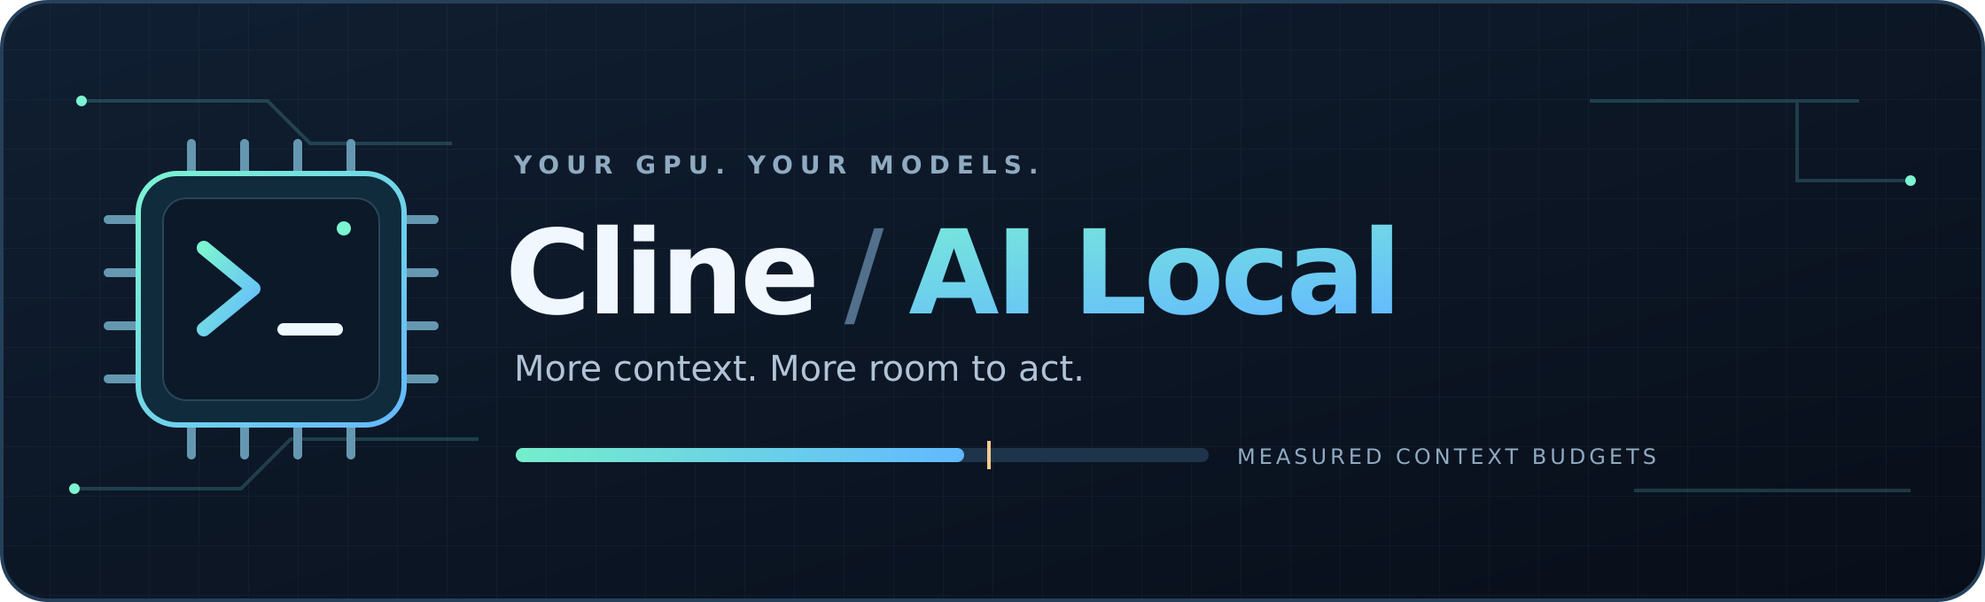
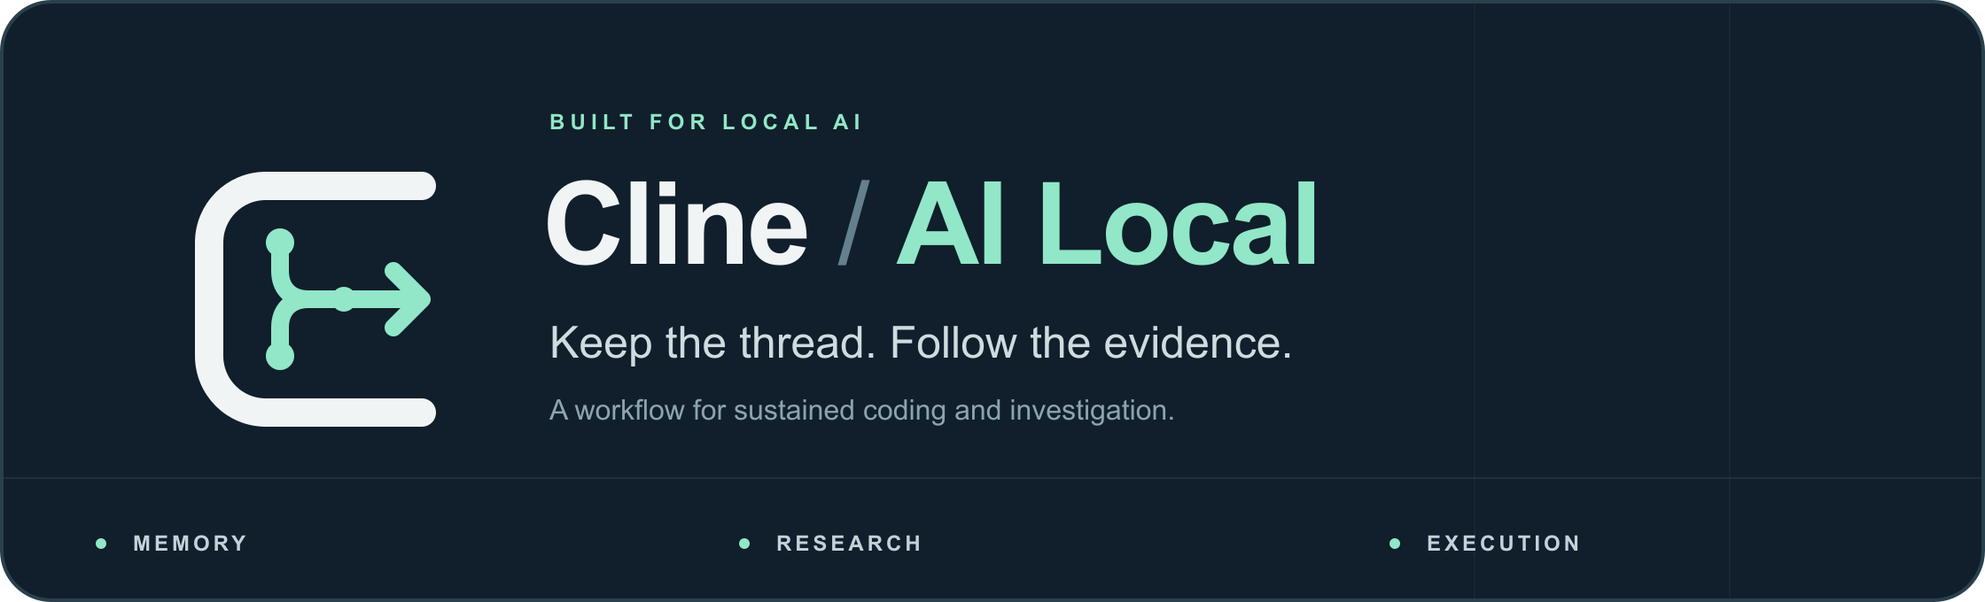
docs: position AI Local around sustained model workflows

diff --git a/local/release.py b/local/release.py
@@ -16,6 +16,7 @@ import sys
 
 ROOT = Path(__file__).resolve().parent.parent
 MANIFESTS = {"cli": "apps/cli/package.json", "extension": "apps/vscode/package.json"}
+README_IMAGES = ("assets/branding/ai-local-banner.png", "assets/screenshots/local-model-settings.png")
 
 
 def run(root, *args):
@@ -65,9 +66,10 @@ def stamped_manifests(root, release):
     originals = {root / path: (root / path).read_bytes() for path in MANIFESTS.values()}
     readme = root / "apps/vscode/README.md"
     originals[readme] = readme.read_bytes()
-    banner = root / "apps/vscode/assets/branding/ai-local-banner.png"
-    if banner.exists():
-        raise ValueError("Remove the stale generated extension banner before rebuilding")
+    images = [(root / relative, root / "apps/vscode" / relative) for relative in README_IMAGES]
+    for _source, target in images:
+        if target.exists():
+            raise ValueError(f"Remove the stale generated extension README image before rebuilding: {target.name}")
     try:
         for path in [root / p for p in MANIFESTS.values()]:
             manifest = json.loads(originals[path])
@@ -79,13 +81,15 @@ def stamped_manifests(root, release):
                 manifest["bugs"] = {"url": release["repository"] + "/issues"}
             path.write_text(json.dumps(manifest, indent="\t", ensure_ascii=False) + "\n")
         readme.write_bytes((root / "README.md").read_bytes())
-        banner.parent.mkdir(parents=True, exist_ok=True)
-        banner.write_bytes((root / "assets/branding/ai-local-banner.png").read_bytes())
+        for source, target in images:
+            target.parent.mkdir(parents=True, exist_ok=True)
+            target.write_bytes(source.read_bytes())
         yield
     finally:
         for path, contents in originals.items():
             path.write_bytes(contents)
-        banner.unlink(missing_ok=True)
+        for _source, target in images:
+            target.unlink(missing_ok=True)
 
 
 def write_provenance(root, record, package):
@@ -108,8 +112,9 @@ def verify_artifacts(root, record, package, vsix):
             raise ValueError("Packaged extension version or preserved identity is incorrect")
         if json.loads(archive.read("extension/dist/source-provenance.json")) != record:
             raise ValueError("VSIX provenance does not match the CLI")
-        if archive.read("extension/assets/branding/ai-local-banner.png") != (root / "assets/branding/ai-local-banner.png").read_bytes():
-            raise ValueError("VSIX is missing the fork banner")
+        for relative in README_IMAGES:
+            if archive.read("extension/" + relative) != (root / relative).read_bytes():
+                raise ValueError(f"VSIX is missing its fork README image: {relative}")
         if "What this fork provides" not in archive.read(next(name for name in archive.namelist() if name.lower() == "extension/readme.md")).decode():
             raise ValueError("VSIX is missing the fork introduction")
         runtime = record["coreRuntimeBuildId"].encode()

diff --git a/local/test_release.py b/local/test_release.py
@@ -28,6 +28,8 @@ class ReleaseTests(unittest.TestCase):
             (root / "apps/vscode/assets").mkdir()
             (root / "assets/branding").mkdir(parents=True)
             (root / "assets/branding/ai-local-banner.png").write_text("<svg/>")
+            (root / "assets/screenshots").mkdir()
+            (root / "assets/screenshots/local-model-settings.png").write_bytes(b"settings screenshot")
             (root / "README.md").write_text("What this fork provides\nassets/branding/ai-local-banner.png\n")
             metadata = {"version": "2026.10.1", "displayName": "Cline / AI Local", "description": "Local models"}
             with self.assertRaisesRegex(RuntimeError, "compiler failed"):
@@ -36,10 +38,12 @@ class ReleaseTests(unittest.TestCase):
                     self.assertEqual(extension["version"], "2026.10.1")
                     self.assertEqual(extension["publisher"], "preserved")
                     self.assertIn("assets/branding/ai-local-banner.png", readme.read_text())
+                    self.assertEqual((root / "apps/vscode/assets/screenshots/local-model-settings.png").read_bytes(), b"settings screenshot")
                     raise RuntimeError("compiler failed")
             for path, expected in originals.items():
                 self.assertEqual(path.read_bytes(), expected)
             self.assertFalse((root / "apps/vscode/assets/branding/ai-local-banner.png").exists())
+            self.assertFalse((root / "apps/vscode/assets/screenshots/local-model-settings.png").exists())
 
     def test_only_explicit_development_build_can_reuse_a_tagged_version(self):
         with tempfile.TemporaryDirectory() as directory:

diff --git a/README.md b/README.md
@@ -1,32 +1,53 @@
 <!-- AI Local fork introduction. Preserve the upstream README below its marker. -->
 <p align="center">
-  <img src="assets/branding/ai-local-banner.png" width="100%" alt="Cline / AI Local — your GPU, your models" />
+  <img src="assets/branding/ai-local-banner.png" width="100%" alt="Cline / AI Local — keep the thread, follow the evidence" />
 </p>
 
 <p align="center">
-  <strong>Built for local GPUs, with precise token budgeting, improved context compaction, focused web research, and native model controls.</strong>
+  <strong>Keep the thread. Follow the evidence. Finish the work.</strong>
 </p>
 
-**Cline / AI Local** is a practical fork for people running Qwen 27B and similar models on their own GPUs. It keeps Cline's CLI and VS Code extension together, with particular attention to making a finite context window useful over long coding sessions.
+**Cline / AI Local** brings session memory, focused research, and execution you can follow to local-model workflows in the **CLI and VS Code**. It grows out of everyday coding and investigation with models running on your own hardware: keeping useful knowledge across sessions, finding the right evidence, and following a command through to its result.
+
+Context is one part of that workflow. The aim is to make the model, its working memory, and its tools work well together over sustained tasks.
+
+### See and control your model's working budget
+
+The native model configuration screen puts **context allocation, compaction, output and reasoning controls** in one place. Its breakdown shows tools and instructions, summarized history, raw recent history, output including thinking, counting margin, and the space reserved for further iterations.
+
+**Default, Profile 1 and Profile 2 are saved per provider/server/model.** Switch between a long investigation and a tighter working budget without rebuilding the settings each time. Grey italic values distinguish server/calculated defaults from your overrides. CLI model selection uses the same saved slots, and both clients display the selected model ID and profile.
+
+<p align="center">
+  <img src="assets/screenshots/local-model-settings.png" width="720" alt="Native model configuration showing Default, Profile 1 and Profile 2, editable context settings, and the complete context budget breakdown" />
+</p>
+
+*The actual settings component, rendered with example values and Profile 1 selected. Tools/instructions and recent-history allocations are estimates; supported native counters verify the prepared request at runtime. [Screenshot details](assets/screenshots/README.md).*
 
 ### What this fork provides
 
-- **Measured context budgets.** Native preflight token counting for supported vLLM / HyperQwen and llama.cpp servers accounts for the actual request, helping preserve room for output without large, conservative padding. Providers without a native counter use estimation; a configured counter failure is reported rather than silently hidden.
-- **Improved compaction and continuity.** Measured input limits guide compaction and overflow recovery; bounded targets, empty-summary recovery, resumed-session fixes, and stable compacted prefixes help keep long sessions useful and preserve prefix-cache reuse.
-- **Focused web research.** Search, save a page outside the conversation, find relevant passages, then read only the lines needed. Whole pages do not have to occupy the model's context. One search tool can use a configured provider, including the optional SearXNG plugin, while native and Exa search support remain available.
-- **Native local-model controls.** Explicit vLLM and llama.cpp providers expose reasoning, sampling, context and output limits. Model discovery and saved profiles restore settings per provider, server and model, shared by the editor and CLI. HyperQwen is used through the vLLM provider; llama-swap can sit in front without Cline guessing or switching the inference engine.
-- **A native file editor.** Structured, bounded reads and edits with file hashes and conflict checks bring the former editor MCP workflow into Cline's built-in tools.
-- **Practical reliability fixes.** Shutdown logging guards, session recovery, and verified waits for long-running commands and expert consultations address problems encountered during everyday local use.
+- **Native model configuration.** vLLM and llama.cpp controls expose sampling, thinking, context/output limits and compaction budgets. Per-model profile slots, editable token-cost estimates, model discovery and visible IDs keep the CLI and editor aligned. HyperQwen uses the vLLM provider; llama-swap can route requests without Cline guessing the inference engine.
+- **Memory built from the work.** Compaction records actions and results, user requirements, design and API knowledge learned from code/docs, corrections, and unresolved work. Whole messages and tool exchanges stay together. Oldest notes are reduced together only when the summary exceeds its budget. Model-generated summaries remain imperfect; full saved history is retained.
+- **Continuity across recovery and revisions.** Resume, checkpoint/Undo and edited-message fixes preserve validated compaction state and the working context. Prepared requests retain stable summarized prefixes where possible, supporting prefix-cache reuse.
+- **Research with evidence in reach.** Search, save pages outside the conversation, find relevant passages, and read only the lines needed. The model can revisit sources without carrying whole pages in context. Search and page acquisition have configurable providers, including the optional SearXNG plugin.
+- **Commands that remain trackable.** Native/headless commands that outlast the foreground wait continue under the same PID, with captured output and a log for later results. Identity-aware process waits and verified expert-status waits avoid repeated shell polling and false loop failures. Visible VS Code terminals retain their own terminal-specific handoff.
+- **Native editing with staged drafts.** Bounded reads, file hashes, exact-range edits and conflict checks are built into the toolset. Large content can be assembled in chunks before a guarded apply; editor previews and commits use the same underlying engine.
+- **A reusable setup for sustained work.** The opt-in [bootstrap kit](bootstrap/README.md) includes portable rule supplements, a Codex-backed `consult-expert` MCP for explicitly requested expert assignments, and CLI hooks for completion, errors and questions waiting for an answer. These are supplied as setup material, not silently activated by installing Cline.
+
+Underneath those workflows are native request counting and budget admission, bounded reasoning previews, code-server logging and transport repairs, and matched CLI/extension builds with source provenance. The [fork modification inventory](docs/fork-differences.md) maps these changes to their implementation and integration history.
 
 ### Why this fork exists
 
-Customization began after finding a memory leak while running Cline under **code-server**: closing the output channel could trigger recursive logging during logout. The upstream fix is tracked in [PR #15066 — prevent closed output channel logging recursion](https://github.com/cline/cline/pull/15066).
+The first change addressed a code-server memory leak: closing the output channel could trigger recursive logging during logout. That repair is documented in [PR #15066 — prevent closed output channel logging recursion](https://github.com/cline/cline/pull/15066).
 
-The scope grew from that repair into the local-inference and context-management improvements above. Cline has a substantial open pull-request queue, and waiting for every needed change to be reviewed and released would have taken too long for this setup. This fork makes those changes usable together now while continuing to merge upstream development. Its purpose lasts only as long as these improvements remain useful: as upstream Cline incorporates equivalent or better behavior, the corresponding local changes can be retired.
+The scope has grown into an integrated environment for working with local models. The improvements come from actual failures and repeated friction in long coding and research sessions, rather than treating a larger context window as the solution to every problem.
+
+This remains a Cline fork. It continues to integrate upstream development, preserves Cline's authorship and license, and can retire local changes as upstream provides equivalent or better behavior.
 
 ### Builds and upstream
 
-CLI and extension releases share one fork version, **`year.month.release`** (for example, `2026.10.1`). Each build records the exact fork commit, merged upstream commit, original upstream package versions and shared runtime fingerprint. See [local builds and releases](local/README.md) and the [development workflow](LOCAL_DEVELOPMENT.md).
+CLI and extension releases share one fork version, **`year.month.release`** (for example, `2026.10.1`). Development builds record their exact source commit without moving a release tag. Both clients are built from the same committed SDK source, with provenance, a shared runtime fingerprint and artifact hashes.
+
+See [local builds and releases](local/README.md), the [development workflow](LOCAL_DEVELOPMENT.md), and the [fork's branding assets](assets/branding/README.md). The capabilities above describe this fork's current source; use the build receipt to identify what an installed package contains.
 
 The original Cline README follows. Its installation commands and product links describe **upstream Cline**; they do not install this fork. Cline's original authorship and license are preserved.
 

diff --git a/docs/fork-differences.md b/docs/fork-differences.md
@@ -1,0 +1,48 @@
+# What AI Local changes from upstream Cline
+
+This inventory describes the fork's current additions and behavior changes on top of Cline's coding-agent foundation. It is organized by user value, with source links and representative local commits. It is not a count of features unique to Cline or a claim that each intermediate experiment remains active.
+
+The initial audit reviewed all 61 non-merge commits in the local `origin/main..local-main` range through `3f94d5c20`, including its integration merges. The common upstream ancestor at that audit was `f817e59f6`. Commit references below identify the local integration history; current source is authoritative.
+
+## Model configuration and context visibility
+
+| Change | Current implementation | Representative commits |
+| --- | --- | --- |
+| Native vLLM/HyperQwen and llama.cpp providers, discovery, native request counting, image-token accounting and serialized inference controls | [Provider guide](provider-config/local-inference.mdx), [local inference transport](../sdk/packages/llms/src/providers/local-inference.ts), [provider discovery](../sdk/packages/core/src/services/providers/local-inference-discovery.ts), [image accounting](../sdk/packages/core/src/extensions/context/image-token-accounting.ts) | `3ce9ac935`, `1620052d8`, `5cfe90701`, `430125d5a` |
+| A dedicated settings screen with context/output/compaction fields, inherited versus overridden values, reasoning and sampling controls, and a full allocation breakdown | [Settings form](../apps/vscode/webview-ui/src/components/settings/providers/LocalInferenceSettingsForm.tsx), [budget calculation](../sdk/packages/shared/src/llms/local-model-budget.ts) | `e21a4880b`, `14a1db406`, `034318bd1`, `9d367c08a` |
+| Default/P1/P2 slots per provider/server/model; shared editor/CLI selection; model IDs and active-slot footer labels; editable token-cost estimates per model | [Profile storage](../sdk/packages/core/src/services/storage/provider-settings-manager.ts), [CLI profile selection](../apps/cli/src/utils/local-model-profiles.ts), [cost controls](../apps/vscode/webview-ui/src/components/settings/providers/LocalModelCostSettings.tsx) | `c845dc3cd`, `d223c5b72`, `daaca2d6e` |
+
+The budget separates tools/instructions, summary allowance, raw recent history, normal output including thinking, counting margin/boundary and iteration space. It includes the preferred compaction target, minimum iteration reserve, hard compaction cap and maximum context. The allocation display contains planning estimates; supported native counters measure the actual prepared request. Context and output limits are restored into the running session, not just displayed in settings.
+
+## Memory, evidence and execution
+
+| Change | Current implementation | Representative commits |
+| --- | --- | --- |
+| Measured compaction admission and overflow recovery, independent chronological history-window notes, code/docs knowledge retention, bounded smaller retries and oldest-pair reductions | [Compaction policy](../sdk/packages/core/src/extensions/context/compaction.ts), [window summaries](../sdk/packages/core/src/extensions/context/measured-summary.ts) | `1620052d8`, `09ee22f84`, `daaca2d6e`, `7f0d1b3b8` |
+| Preserve usable context across resume, missing-state recovery, checkpoint restore, repeated Undo and edited-message regeneration; stabilize prepared summarized prefixes | [Recovery](../sdk/packages/core/src/session/services/context-recovery.ts), [saved compaction](../sdk/packages/core/src/session/models/session-compaction.ts), [extension coordinator](../apps/vscode/src/sdk/sdk-compaction-coordinator.ts) | `5882da1a4`, `03eccc6d4`, `ef99d5d20`, `2eeba8380`, `71a851478` |
+| Search/page acquisition provider separation; file-backed page loading, search and bounded reads; packaged page worker rather than injecting complete pages into the conversation | [Research guide](sdk/web-research.mdx), [tool implementation](../sdk/packages/core/src/extensions/tools/web-pages.ts) | `a3a58caca` |
+| Native file-editor family with bounded/hash reads, exact-range edits, staged chunked drafts, guarded apply/create, and matching previews/commits | [Editor guide](sdk/native-file-editor.mdx), [engine](../sdk/packages/core/src/extensions/tools/file-editor/engine/editor.mjs), [draft protocol](../sdk/packages/core/src/extensions/tools/file-editor/engine/drafts.mjs) | `da36584de` |
+| Native/headless foreground wait expiry -> same-PID background handoff with an open log; explicit foreground cancellation; continued output and exit records | [Native executor](../sdk/packages/core/src/extensions/tools/executors/bash.ts), [tool wrapper](../sdk/packages/core/src/extensions/tools/definitions.ts), [VS Code headless forwarding](../apps/vscode/src/sdk/vscode-run-commands-tool.ts) | `7f0d1b3b8`, `2763cf8ee` |
+| PID identity checks, bounded log-tail process waits and validated expert-status waits; wait deadlines do not kill jobs; batched progress avoids shell polling and false loop failures | [Process wait](../sdk/packages/core/src/extensions/tools/process-wait.ts), [wait contract](../sdk/packages/core/src/runtime/safety/job-wait.ts), [runtime tracker](../sdk/packages/core/src/runtime/safety/job-wait-tracker.ts) | `ca11224d1`, `6d617933a`, `e5a866bf4`, `4d17e22d6` |
+| Bounded/batched terminal reasoning previews and a proportional context meter | [Reasoning preview](../apps/cli/src/tui/utils/reasoning-preview.ts), [status bar](../apps/cli/src/tui/components/status-bar.tsx) | `c91a7a867`, `4f087acea` |
+
+Current compaction protects the latest human instruction verbatim and summarizes older user messages normally. Map passes receive only their own window; previous notes are retained locally. Summaries are model-generated and may contain errors or conflicting historical hypotheses. Canonical history is retained for verification. Early assistant-prefill experiments, retention of every original user input, and frozen-prefix summary-reduction experiments were superseded and are not current features.
+
+Command handoff applies to the native CLI/headless path. Visible VS Code terminal execution has its existing terminal-specific handoff. Remote PIDs require remote observation. A process wait reports liveness; disappearing from the process table does not by itself establish a successful exit.
+
+## Optional workflow support and operational integration
+
+| Change | Current implementation | Representative commits |
+| --- | --- | --- |
+| Portable global rule supplements, aligned with the shared non-YOLO Act prompt; proportionate planning, evidence, recovery and delivery guidance without duplicating default instructions | [Bootstrap kit](../bootstrap/README.md), [default coverage map](../bootstrap/rules/README.md), [Act prompt](../sdk/packages/shared/src/prompt/system/act.ts) | `5ade2b862`, `0d3bc31d8`, `a8d9e8209` |
+| Opt-in Linux/WSL `consult-expert` stdio MCP with durable job supervision, explicit-request/permission boundaries and setup templates | [Expert setup and contracts](../bootstrap/consult-expert/README.md) | `5ade2b862` |
+| Opt-in CLI completion/error and waiting-for-answer notifications, with Home Assistant webhook examples | [Notification setup](../bootstrap/notifications/README.md) | `5ade2b862`, `3ae4c2928` |
+| Code-server closed-output logging guards; shared-runtime compaction transport, edited-message and Request/stream handling repairs | [Logger guard](../apps/vscode/src/shared/services/Logger.ts), [extension transport](../apps/vscode/src/sdk/cline-session-factory.ts), [compaction bridge](../apps/vscode/src/sdk/sdk-compaction.ts) | `29fe258f4`, `430125d5a` |
+| One committed SDK source for the CLI/extension, calendar fork versioning, provenance/fingerprint/hash verification, stale-Hub diagnostics, development artifacts without moving release tags | [Build/deployment guide](../local/README.md), [build verification](../local/release.py), [integration workflow](../LOCAL_DEVELOPMENT.md) | `8e692db79`, `25657dd51`, `83e0f5b71`, `feb9884b9` |
+| Fork CI coverage on `local-main`, quiet-period gating and upstream-only coverage-service uploads | [Fork CI policy](../LOCAL_DEVELOPMENT.md#fork-github-actions) | `2fb15d1f9`, `4de4c3d2c`, `e1620a8b5` |
+
+Bootstrap rules, expert tools and notification hooks are opt-in setup material. Building the clients does not activate them, configure provider accounts, or install a user's credentials. Application/package identifiers and upstream authorship/license remain intact.
+
+## Keep this inventory current
+
+For a user-facing fork change, review the merged commits and final source, then update the relevant entry here. Update the root README when the public feature set or positioning changes; keep implementation details and supporting commit references here. Replace obsolete descriptions when an approach is superseded. A bug-fix commit does not automatically warrant another headline feature.

diff --git a/assets/branding/README.md b/assets/branding/README.md
@@ -1,0 +1,12 @@
+# Cline / AI Local branding
+
+The fork mark combines an open C-shaped workspace with joined paths and a forward arrow. It represents knowledge and evidence carried into action. The banner introduces the fork through memory, research and execution, rather than a context-capacity meter.
+
+- `ai-local-mark.svg`: editable fork mark; `ai-local-mark.png` is its 1024 × 1024 raster export.
+- `ai-local-banner.svg`: editable 1120 × 340 README banner; `ai-local-banner.png` is its 2240 × 680 raster export.
+- The banner uses Arial/Helvetica with system sans-serif fallback. The standalone mark contains no font dependency.
+- Regenerate PNG exports from the corresponding SVG after changing the artwork, and inspect both full-size and reduced previews.
+
+The root README uses the banner. The local packaging helper copies that README, banner and settings screenshot into the VSIX during a build, then restores upstream source files. `local/release.json` owns the fork's display name and package description; a branding edit does not increment the version or create a release.
+
+`cline-app-icon.*` and `logos/cline-*` retain the upstream Cline artwork. The new fork mark does not replace upstream assets or change extension identifiers, package names, or the installed application's icon.

diff --git a/AGENTS.md b/AGENTS.md
@@ -43,3 +43,5 @@ Use `feature/` for new features and `fix/` for repairs. Do not create branches w
 Build both clients from the refreshed primary `local-main` checkout and the same committed SDK source. Build caches and installed release directories are artifacts, never independent source checkouts. Record the source commit with build artifacts and deploy only verified builds after integration.
 
 Before every new commit, review the staged diff and commit message for secrets, personal paths, private hosts and saved session data; run a redacted local secret scan. Use repository-local author and committer identity `Anton I <inflyer@hotmail.com>`. Preserve existing published history unless a history rewrite is explicitly requested. The `fork` remote is the personal publishing destination; `origin` remains upstream. See `LOCAL_DEVELOPMENT.md` for the workflow.
+
+For user-facing fork changes, keep `docs/fork-differences.md` current and update the root README when the public feature set or positioning changes. Check merged history and the final implementation rather than relying on conversation memory. Replace superseded prototype descriptions instead of accumulating obsolete feature claims; keep routine fix details in the inventory rather than adding a new README headline for every commit.

diff --git a/assets/screenshots/README.md b/assets/screenshots/README.md
@@ -1,0 +1,9 @@
+# Settings screenshot
+
+`local-model-settings.png` is a headless Chromium capture of the real `LocalInferenceSettingsForm` React component, using VS Code dark-theme CSS variables in a standalone preview. It is an example configuration, not a capture of a user's account or an entire IDE window. No provider endpoint, credential or live conversation is used.
+
+Source: `apps/vscode/webview-ui/src/components/settings/providers/LocalInferenceSettingsForm.tsx`. The component was unchanged for this screenshot.
+
+The example selects Profile 1 for `qwen-27b-max-context`, with a maximum context of 153,600 tokens and normal output of 7,000 tokens. Compaction target and summary allowance use the component's calculated defaults. The allocation bar and every displayed budget value are produced by the actual shared budget calculation, not drawn or edited into the image. Advanced settings remain collapsed.
+
+Refresh this image when profile controls or budget fields change. Render the component with public example values, wait for its configuration effect, verify the selected profile and allocation, then capture the component at 2× pixel density. Keep example values clearly labelled and preserve the distinction between estimated allocation and native request measurement.
